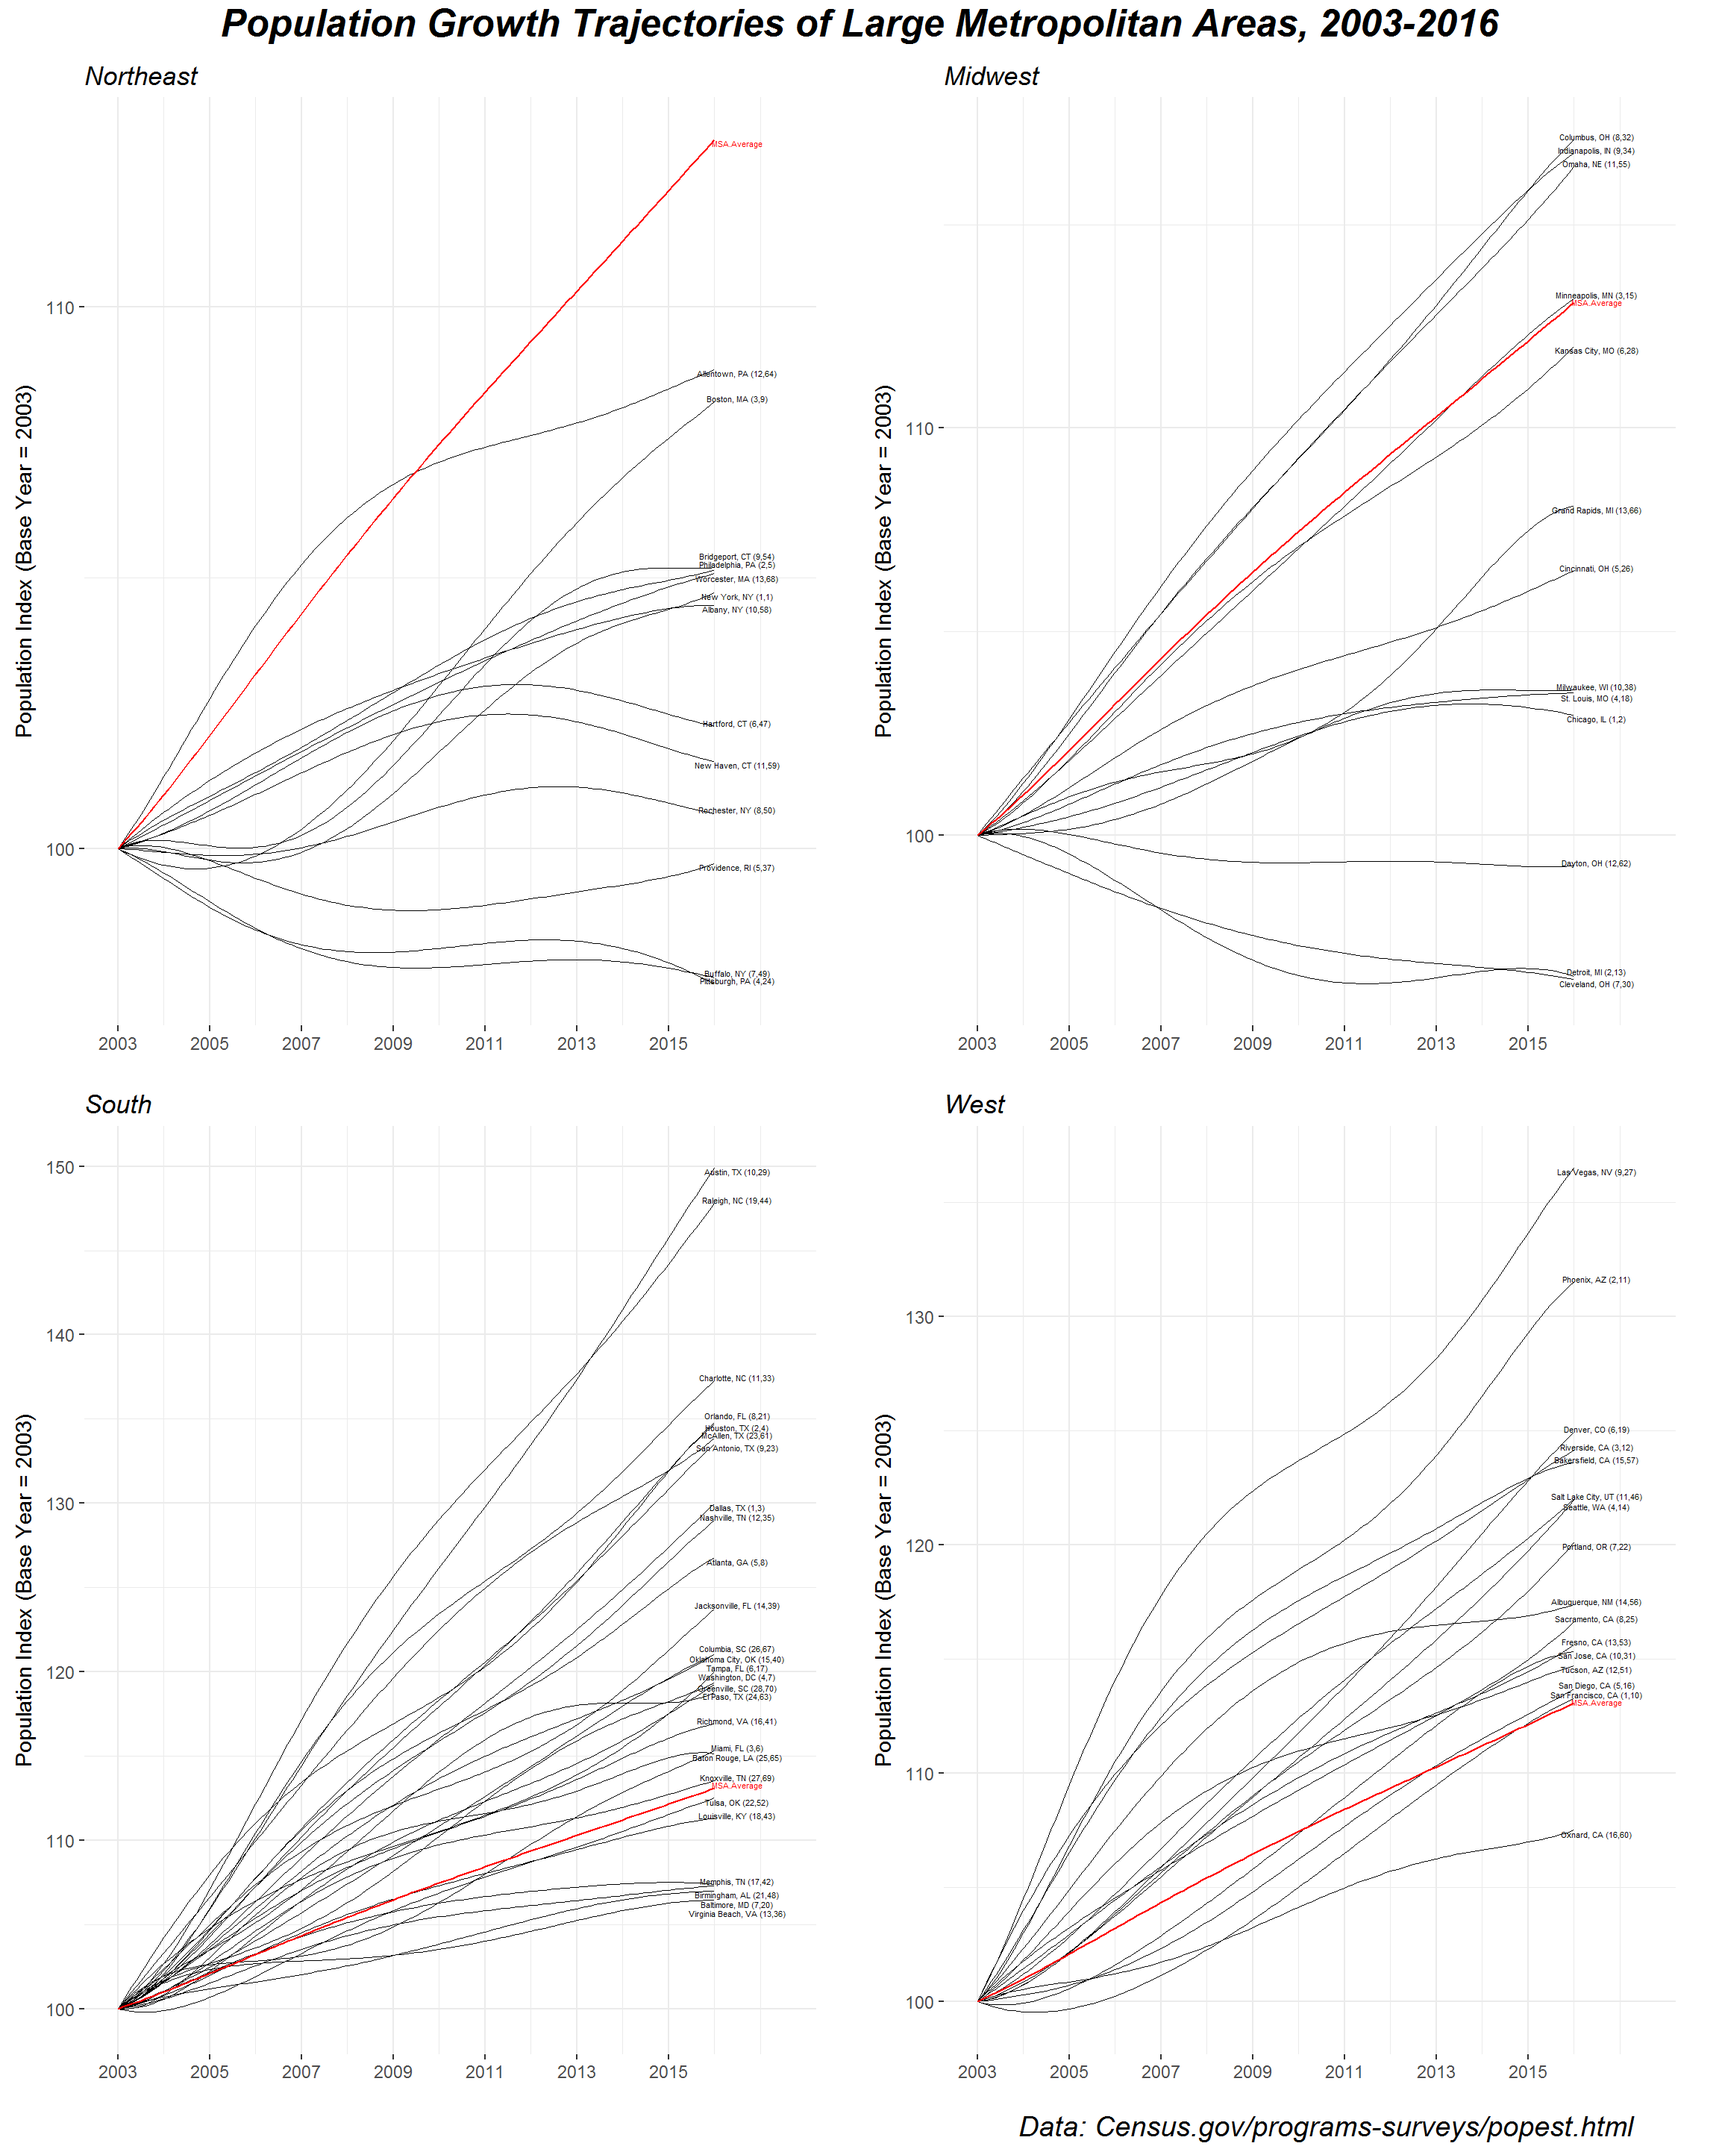
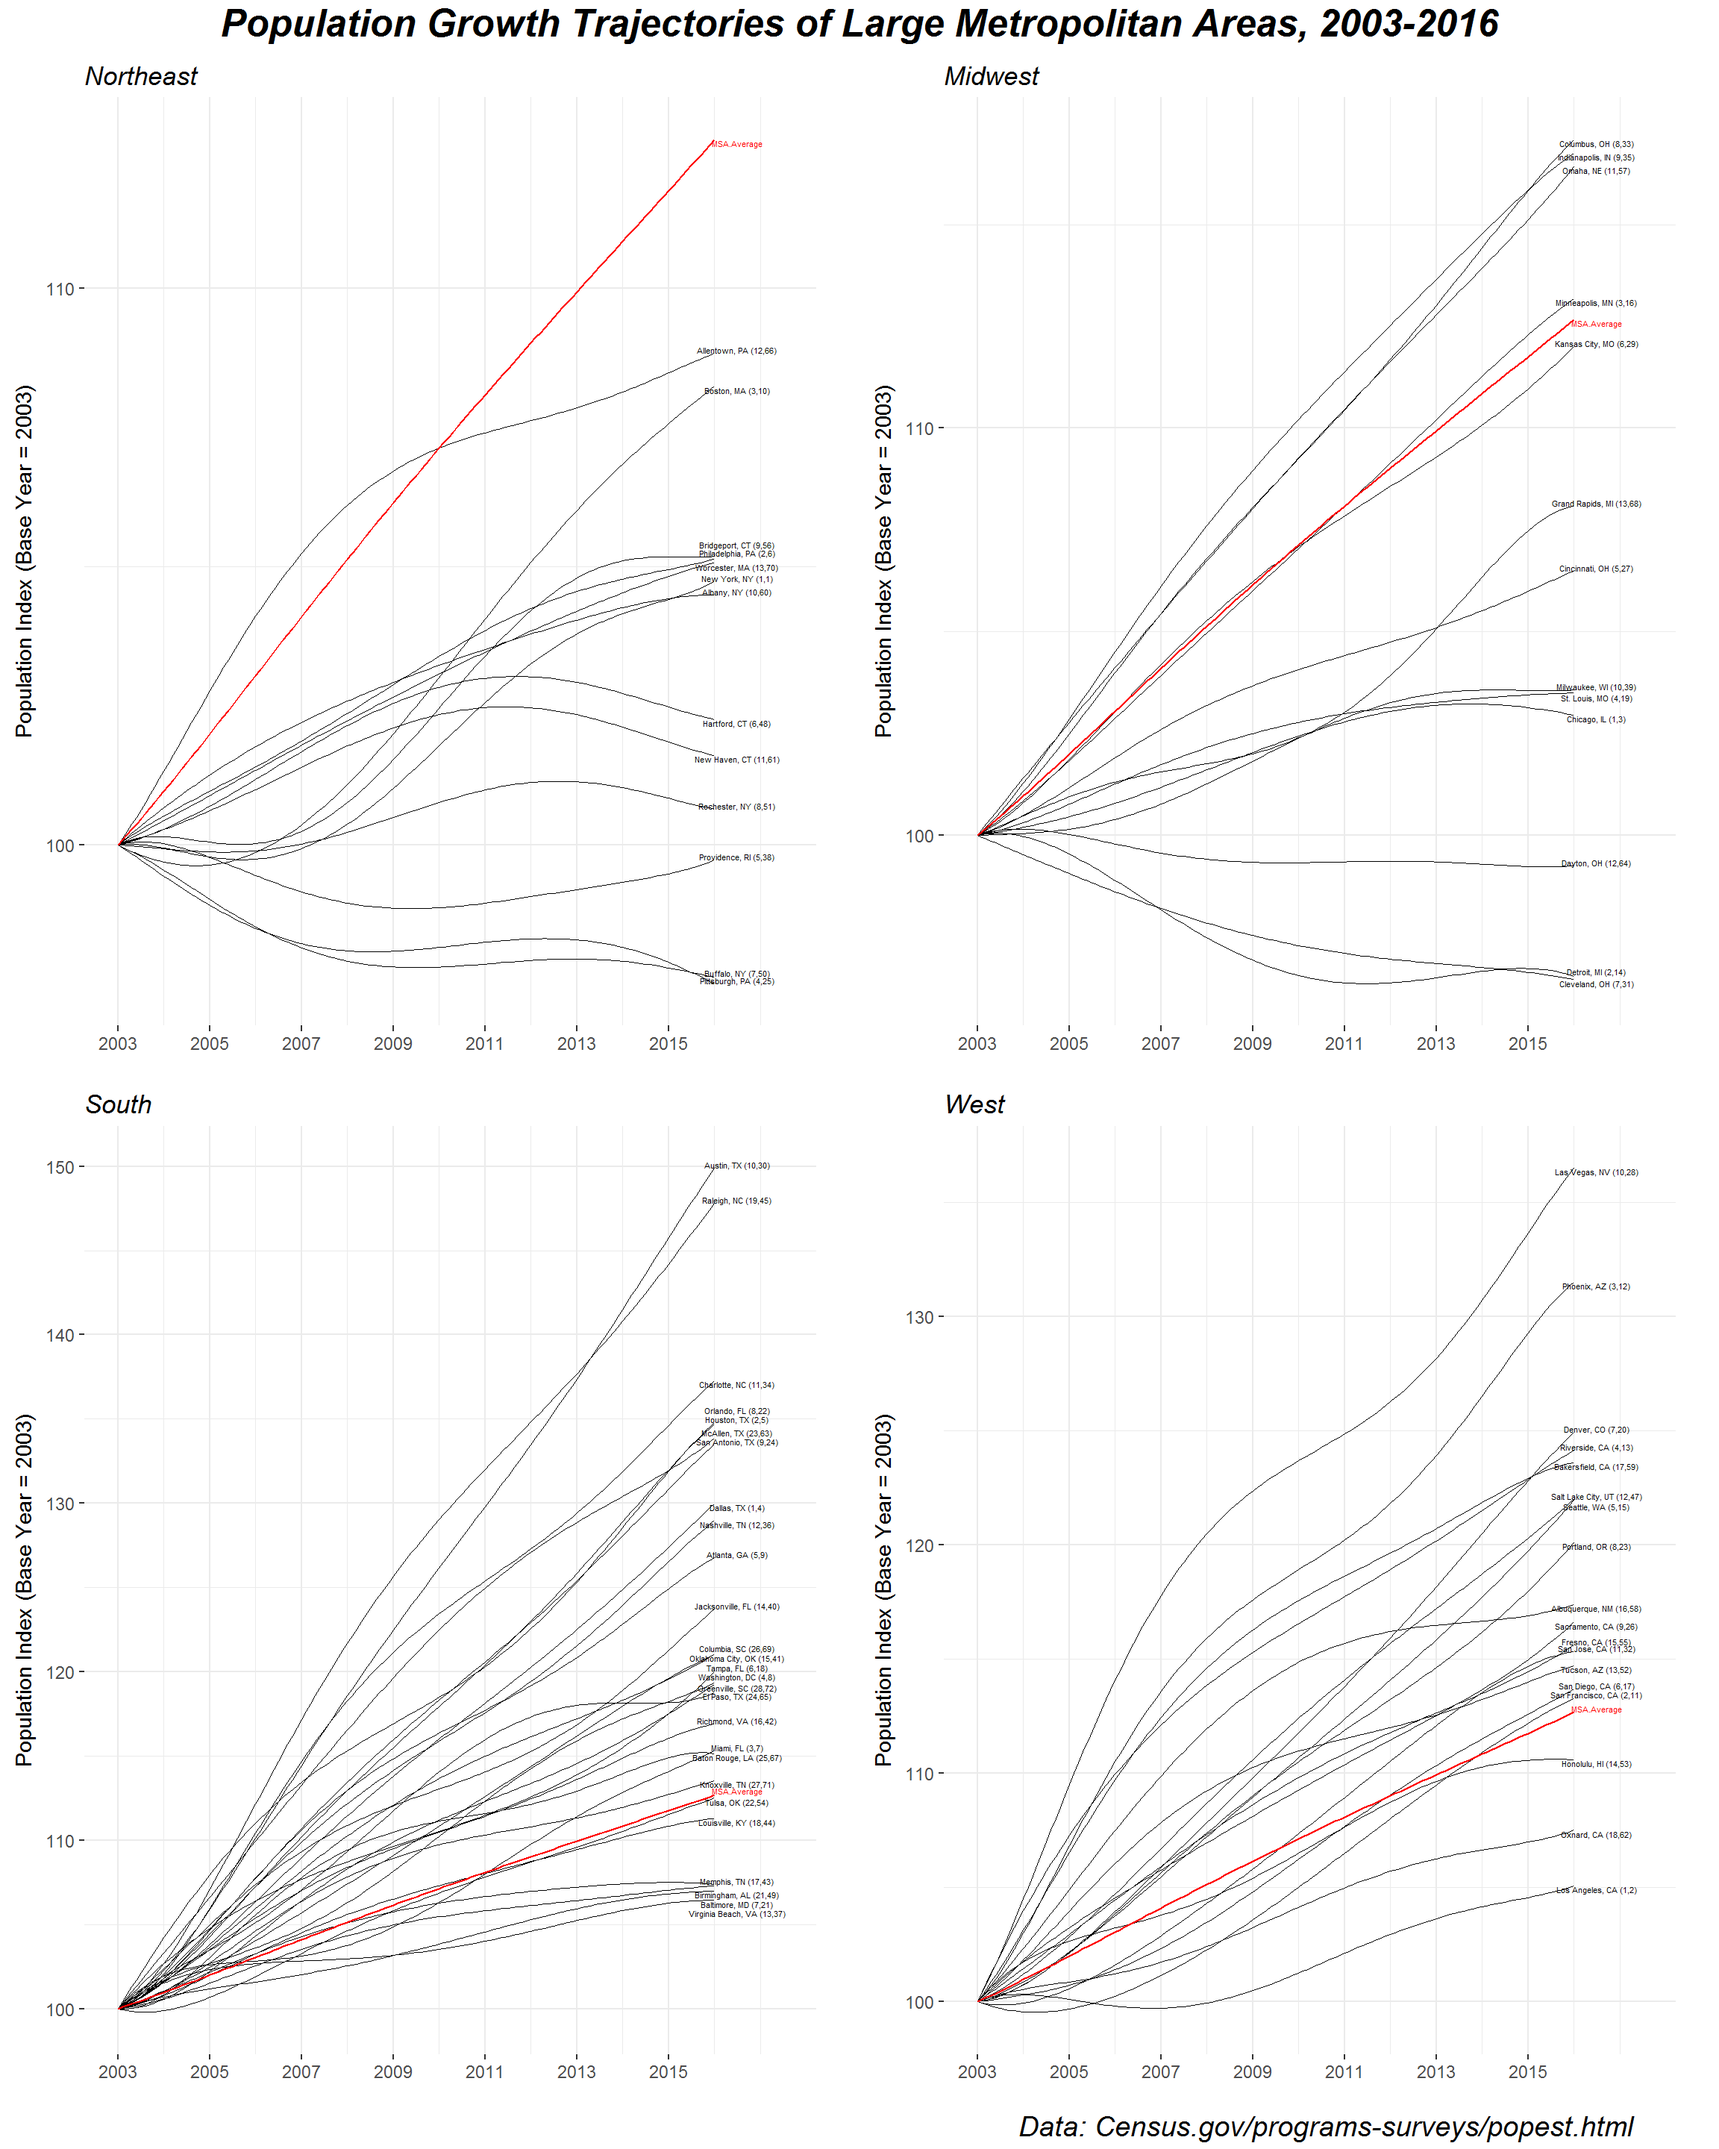
updates

diff --git a/content/blog/2017-09-29-population-growth-trajectories-of-u-s-metropolitan-areas.html b/content/blog/2017-09-29-population-growth-trajectories-of-u-s-metropolitan-areas.html
@@ -73,18 +73,18 @@ head(county00.09, 20)</code></pre>
 msa_delin = setNames(lapply(delin_files, parse_delin_file), 2003:2009)
 
 print(msa_delin$`2009`)
-##         MSA Div state county
-##    1: 10180  NA    NA     NA
-##    2: 10180  NA    48    059
-##    3: 10180  NA    48    253
-##    4: 10180  NA    48    441
-##    5: 10380  NA    NA     NA
-##   ---                       
-## 1568: 49700  NA    NA     NA
-## 1569: 49700  NA    06    101
-## 1570: 49700  NA    06    115
-## 1571: 49740  NA    NA     NA
-## 1572: 49740  NA    04    027
+##         MSA state county                            MSA_NAME
+##    1: 10180    NA     NA                         Abilene, TX
+##    2: 10180    48    059                         Abilene, TX
+##    3: 10180    48    253                         Abilene, TX
+##    4: 10180    48    441                         Abilene, TX
+##    5: 10380    NA     NA Aguadilla-Isabela-San Sebastián, PR
+##   ---                                                       
+## 1568: 49700    NA     NA                       Yuba City, CA
+## 1569: 49700    06    101                       Yuba City, CA
+## 1570: 49700    06    115                       Yuba City, CA
+## 1571: 49740    NA     NA                            Yuma, AZ
+## 1572: 49740    04    027                            Yuma, AZ
 ##                                                                    Name
 ##    1:                         Abilene, TX Metropolitan Statistical Area
 ##    2:                                               Callahan County, TX
@@ -96,20 +96,9 @@ print(msa_delin$`2009`)
 ## 1569:                                                 Sutter County, CA
 ## 1570:                                                   Yuba County, CA
 ## 1571:                            Yuma, AZ Metropolitan Statistical Area
-## 1572:                                                   Yuma County, AZ
-##                                  MSA_NAME
-##    1:                         Abilene, TX
-##    2:                         Abilene, TX
-##    3:                         Abilene, TX
-##    4:                         Abilene, TX
-##    5: Aguadilla-Isabela-San Sebastián, PR
-##   ---                                    
-## 1568:                       Yuba City, CA
-## 1569:                       Yuba City, CA
-## 1570:                       Yuba City, CA
-## 1571:                            Yuma, AZ
-## 1572:                            Yuma, AZ</code></pre>
-<p>The next step is to merge each delineation file with the county population estimates for the corresponding year. This can be done with the Map function. Then we can simply sum the population estimates by year/MSA and bind the 2003-2009 and 2010-2016 data together:</p>
+## 1572:                                                   Yuma County, AZ</code></pre>
+<p>The next step is to merge each delineation file with the county population estimates for the corresponding year, using the state and county FIPS codes. This can be done with the Map function. Then we can simply sum the population estimates by year/MSA and bind the 2003-2009 and 2010-2016 data sets together.</p>
+<p>Note: Some of the 5-digit MSA codes do not comport across (or even within) data sets, even though their labels suggest that they represent the same MSA. For each of these cases, I recode the MSA to match the most recent version.</p>
 <pre class="r"><code>msa03.09 = Map(function(delin, year) delin[county00.09[YEAR==year],
                                            on=.(state, county), nomatch=0],
                msa_delin, as.list(2003:2009))
@@ -126,23 +115,53 @@ msa03.16 = rbindlist(
   fill=TRUE
 )
 
+# Steubenville-Weirton, OH-WV --&gt; Weirton-Steubenville, WV-OH
+msa03.16[MSA==44600, MSA:= 48260]
+# Vero Beach, FL --&gt; Sebastian-Vero Beach, FL
+msa03.16[MSA==46940, MSA:= 42680]
+# Santa Barbara-Santa Maria-Goleta, CA --&gt; Santa Maria-Santa Barbara, CA
+msa03.16[MSA==42060, MSA:= 42200]
+# Los Angeles-Long Beach-Santa Ana, CA --&gt; Los Angeles-Long Beach-Anaheim, CA
+msa03.16[MSA==31100, MSA:= 31080]
+# Lafayette, IN --&gt; Lafayette-West Lafayette, IN
+msa03.16[MSA==29140, MSA:= 29200]
+# Honolulu, HI --&gt; Urban Honolulu, HI
+msa03.16[MSA==26180, MSA:= 46520]
+# Bloomington-Normal, IL --&gt; Bloomington, IL
+msa03.16[MSA==14060, MSA:= 14010]
+# Sarasota-Bradenton-Venice, FL --&gt; North Port-Sarasota-Bradenton, FL
+msa03.16[MSA==42260, MSA:= 35840]
+# Bradenton-Sarasota-Venice, FL --&gt; North Port-Sarasota-Bradenton, FL
+msa03.16[MSA==14600, MSA:= 35840]
+# Fort Walton Beach-Crestview-Destin, FL --&gt; Crestview-Fort Walton Beach-Destin, FL
+msa03.16[MSA==23020, MSA:= 18880]
+
 setkey(msa03.16, MSA, YEAR)
 
-msa03.16[, MSA_NAME:= zoo::na.locf(MSA_NAME, fromLast=TRUE), by=&#39;MSA&#39;]</code></pre>
+msa03.16[, MSA_NAME:= zoo::na.locf(MSA_NAME, fromLast=TRUE), by=&#39;MSA&#39;]
+
+# Restrict to MSAs with data over entire sample period (2003 - 2016)
+msa03.16 = msa03.16[msa03.16[, .I[.N==14], by=&#39;MSA&#39;]$V1]</code></pre>
 <p>Patching these two series together results in several sharp discontinuities in 2009-2010 (maybe due to some MSAs being redefined after the 2010 Census). As we’re ultimately interest in growth rates as opposed to levels, these discontinuities can be “corrected” by adjusting the population estimates. A reasonable adjustment is to assume the growth rate from 2009-2010 to be the average of growth rates from 2008-2009 and 2010-2011. If <span class="math inline">\(X_i\)</span> is the population in year <span class="math inline">\(i\)</span> and <span class="math inline">\(g_{i,j} = X_j / X_i - 1\)</span> the population growth rate from year <span class="math inline">\(i\)</span> to year <span class="math inline">\(j\)</span>, define the adjusted estimates <span class="math display">\[
 \tilde{X}_i = X_{2009} (1 + g_{2010, i}) \sqrt{(1 + g_{2008, 2009})(1 + g_{2010, 2011})} \\[1.2em]
 = X_i \frac{X_{2009}}{X_{2010}} \sqrt{\frac{X_{2009}}{X_{2008}} \cdot \frac{X_{2011}}{X_{2010}}}.
 \]</span> for <span class="math inline">\(i \geq 2010\)</span> and <span class="math inline">\(\tilde{X}_i = X_i\)</span> for <span class="math inline">\(i &lt; 2010\)</span>. Doing it this way essentially joins the segments <span class="math inline">\(X_{2003:2009}\)</span> and <span class="math inline">\(X_{2010:2016}\)</span> while preserving growth rates within each. But bear in mind that some MSA definitions may not be consistent over the entire sample period.</p>
-<p>Instead of calculating growth rates directly, let’s construct a population index, or <em>trajectory</em>, with base year 2003, <span class="math inline">\(\hat{X}_i = 100 \times \tilde{X}_i / X_{2003}\)</span>. Plotting the trajectories will give a nice visual representation while permitting approximate comparisons of growth for different MSAs, or for the same MSA at different points in time. Let’s also compute the average trajectory of all MSAs in our sample to provide a baseline comparison. (Note that summing <code>POP</code> by year gives us a population-weighted average, as opposed to equal-weighted.)</p>
-<pre class="r"><code># Restrict to MSAs with data over entire sample period (2003 - 2016)
-msa03.16 = msa03.16[msa03.16[, .I[.N == 2016 - 2003 + 1], by=&#39;MSA&#39;]$V1]
-
-msa03.16[, POP_Adj:= ifelse(YEAR &lt; 2010, POP,
+<p>Sanity check that it works:</p>
+<pre class="r"><code>msa03.16[, POP_Adj:= ifelse(YEAR &lt; 2010, POP,
   POP/POP[YEAR==2010] * POP[YEAR==2009] * 
     sqrt(POP[YEAR==2009]/POP[YEAR==2008] * POP[YEAR==2011]/POP[YEAR==2010])),
-  by=&#39;MSA&#39;][
-    # Calculate population index (=100 in base year 2003)
-    , POP_Idx:= 100 * POP_Adj / POP_Adj[1], by=&#39;MSA&#39;]
+  by=&#39;MSA&#39;]
+
+with(msa03.16[MSA==18880], {
+  matplot(YEAR, cbind(POP, POP_Adj), type=&#39;l&#39;,
+          ylab=&#39;Population&#39;, main=MSA_NAME[1])
+  legend(&#39;topleft&#39;, c(&#39;POP&#39;, &#39;POP_Adj&#39;), lty=1:2, col=c(&#39;black&#39;,&#39;red&#39;),
+         inset=.01)
+})</code></pre>
+<p><img src="/blog/2017-09-29-population-growth-trajectories-of-u-s-metropolitan-areas_files/figure-html/unnamed-chunk-7-1.png" width="672" /></p>
+<p>Instead of calculating growth rates directly, let’s construct a population index, or <em>trajectory</em>, with base year 2003, <span class="math inline">\(\hat{X}_i = 100 \times \tilde{X}_i / X_{2003}\)</span>. Plotting the trajectories will give a nice visual representation while permitting approximate comparisons of growth for different MSAs, or for the same MSA at different points in time. Let’s also compute the average trajectory of all MSAs in our sample to provide a baseline comparison. (Note that summing <code>POP</code> by year gives us a population-weighted average, as opposed to equal-weighted.)</p>
+<pre class="r"><code># Calculate population index (=100 in base year 2003)
+msa03.16[, POP_Idx:= 100 * POP_Adj / POP_Adj[1], by=&#39;MSA&#39;]
 
 msa.Avg =
   msa03.16[, .(MSA_NAME=&#39;MSA.Average&#39;, MSA.short=&#39;MSA.Average&#39;, POP_Adj=sum(POP_Adj)),
@@ -172,7 +191,7 @@ plotData[MSA_NAME!=&#39;MSA.Average&#39;, sizeRank_region:= frank(-POP_Adj), by=
 plotData[MSA_NAME!=&#39;MSA.Average&#39;, sizeRank_label:= paste0(&#39; (&#39;, sizeRank_region, &#39;,&#39;, sizeRank, &#39;)&#39;)]
 plotData[, label:= ifelse(MSA_NAME==&#39;MSA.Average&#39;, MSA_NAME, paste0(MSA.short, sizeRank_label))]</code></pre>
 <p>Finally, our plot will be more visually appealing with smooth curves that pass through a common point <span class="math inline">\((2003, 100)\)</span>. This can be achieved by fitting a polynomial regression (sans intercept) <span class="math display">\[
-popidx_j - 100 = \text{poly}(year_j - 2003, 5) \; \boldsymbol{\beta}_j
+popidx_j - 100 = \text{poly}(year_j - 2003, 5) \; \boldsymbol{\beta}_j + \boldsymbol{\varepsilon}_j
 \]</span> for each MSA <span class="math inline">\(j\)</span> and computing fitted values at sufficiently high resolution. I chose <span class="math inline">\(k = 5\)</span> as the polynomial degree because it produces a good visual result without overfitting the sample points. (Note that I exclude New Orleans, LA due to a large population shock (-25%) in the aftermath of Hurricane Katrina in 2005. A piecewise smooth might be more appropriate for this exceptional case.)</p>
 <pre class="r"><code>xgrid = seq(2003, 2016, .1)
 
@@ -222,7 +241,7 @@ grid.arrange(
   ),
   p.Northeast, p.Midwest, p.South, p.West, ncol=2
 )</code></pre>
-<p><img src="/blog/2017-09-29-population-growth-trajectories-of-u-s-metropolitan-areas_files/figure-html/unnamed-chunk-10-1.png" width="1152" /></p>
+<p><img src="/blog/2017-09-29-population-growth-trajectories-of-u-s-metropolitan-areas_files/figure-html/unnamed-chunk-11-1.png" width="1152" /></p>
 <p>(You can right-click and “open in new tab” to magnify the image.)</p>
 <p>It’s nice to be able to see the full population trajectories—for example, we can see that Boston experienced negative growth in the years following 2003 but reversed course to become the Northeast’s fastest-growing metropolitan area over the past decade. One of the immediate takeaways, however, is that the most impressive growth is concentrated in the South and the West, led by the likes of Austin, Raleigh, and Las Vegas. (I’m reminded of this <a href="https://www.washingtonpost.com/realestate/fast-growing-technology-sector-is-fueling-a-housing-boom-in-cities-across-america/2017/01/26/5c72c276-a5d8-11e6-8042-f4d111c862d1_story.html">article</a>.)</p>
 <p>Finally, a note of caution regarding interpretation. The choice of 2003 as the base year is arbitrary, so take the ordering of the labels with a grain of salt. Moreover, today’s fastest-growing MSAs are not necessarily those highest on the y-scale, but rather those with the largest slopes at <span class="math inline">\(x = 2016\)</span> (roughly). There are mild distortions in these slopes due to <a href="https://en.wikipedia.org/wiki/Runge%27s_phenomenon">Runge’s phenomenon</a>, and it would be ill-advised to try to extrapolate more than a year or two into the future.<a href="#fn4" class="footnoteRef" id="fnref4"><sup>4</sup></a> (It’s doubtful that Pittsburgh, PA will see its population nosedive to zero in five years.)</p>
